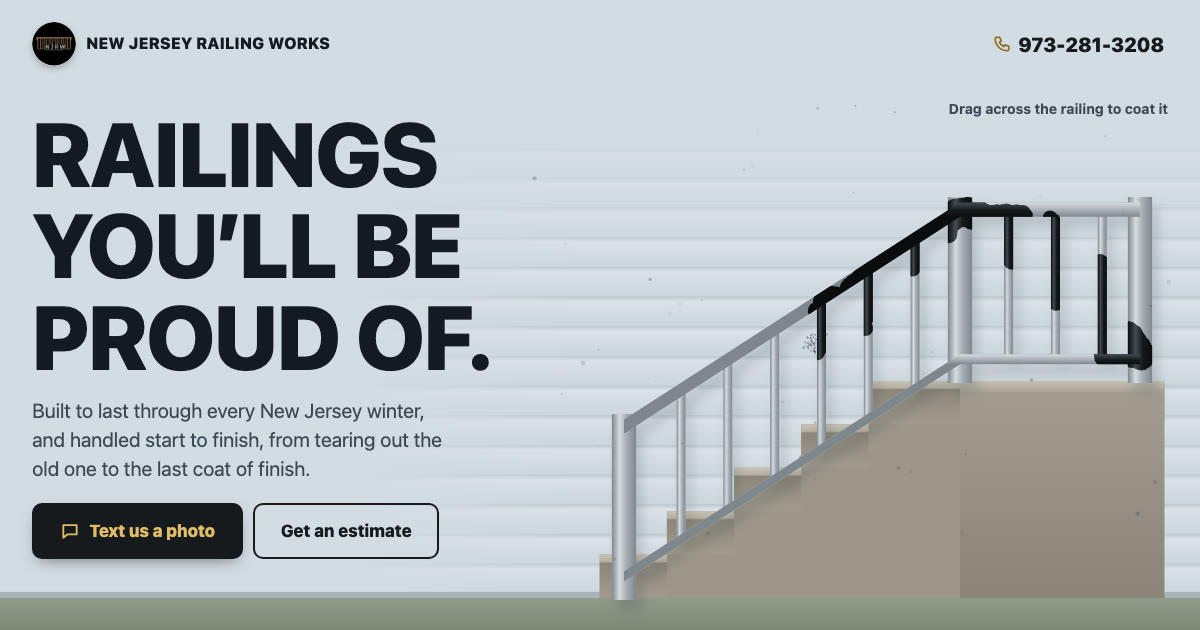
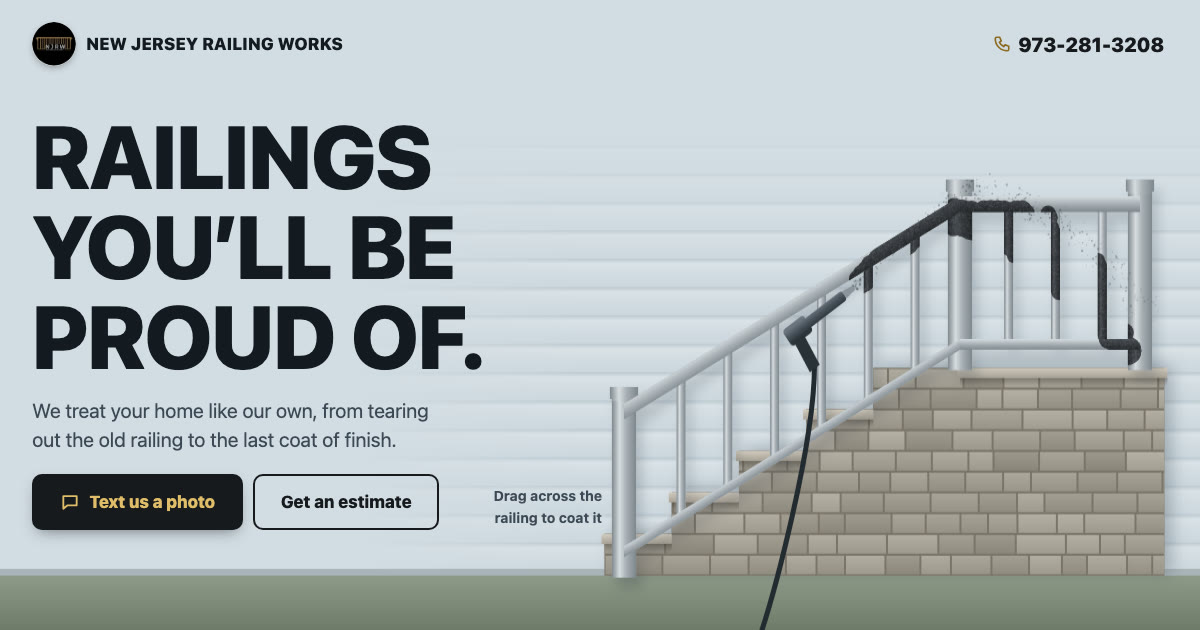
Refresh link preview, handoff notes
Claude-Session: https://claude.ai/code/session_01SaYvpn6RWLhMaZezX6YbqQ

diff --git a/HANDOFF.md b/HANDOFF.md
@@ -17,6 +17,21 @@
   - The form composes a text, with a copy fallback.
   - Email is in the footer only. The Instagram button sits right under the photos, and Instagram is in the footer too.
 
+## Impeccable sweep
+- **Modes run** (all except `live`, plus `onboard`, which has no first-run flow): critique, audit, harden, optimize, adapt, clarify, polish, layout, typeset, colorize, bolder, quieter, distill, animate, delight, overdrive, then the finish reviewer.
+- **Fixes applied:**
+  - Hero: real stone stair; handrail shading that follows the slope; a visible powder gun with its hose; matte powder that cures to semi-gloss.
+  - Gallery: masonry, so every photo keeps its own shape.
+  - Railing dividers: a second one added; both rebuilt as real railings that coat bar by bar.
+  - Desktop: photos fill the empty columns beside the services list and the form.
+  - Accessibility: focus rings on the dark bands, stronger form field borders, form errors announced to screen readers.
+  - Phones: reduced-motion scene no longer blocks scrolling; landscape sizing; header tidy at 360px.
+  - Copy: hours removed from the footer; unverified "price before work starts" claim cut.
+  - The finish reviewer scored the last fix round **ship**.
+- **Detector findings left as decisions:**
+  - The Roboto flag (the system-font house rule) and the hero "cramped padding" flag (the hero is full-bleed on purpose) are suppressed in `.impeccable/config.json`.
+  - The type-ratio warning (14/17/20px under 40–90px headings) is suppressed too, rather than dropping helper text to 13px.
+
 ## Assumptions I made
 - **Texting:** the brief said "accepts texts: unknown", but their Instagram captions say "📞 Call or text: 973-281-3208", so texting is the main channel.
 - **Email:** njrailingworks@gmail.com comes from those same captions (the brief found none). It is in the footer only.
@@ -31,7 +46,7 @@
 
 ## Placeholders and gaps
 - **Logo:** I only have the 100px Instagram profile picture, which looks soft in the header and footer. The favicon is a redrawn SVG of the mark (gold railing + NJRW on black).
-- **Photos:** 10 of their 28 Instagram photos are used (9 in the gallery, 1 in the desktop services column).
+- **Photos:** 11 of their 28 Instagram photos are used (9 in the gallery, plus one each beside the services list and the form on desktop).
   - work-01 had house number "31" painted out.
   - IG photos 01, 06, 07 and 08 were skipped because they show house numbers.
   - None show fences or gates on their own, even though both are listed services.
